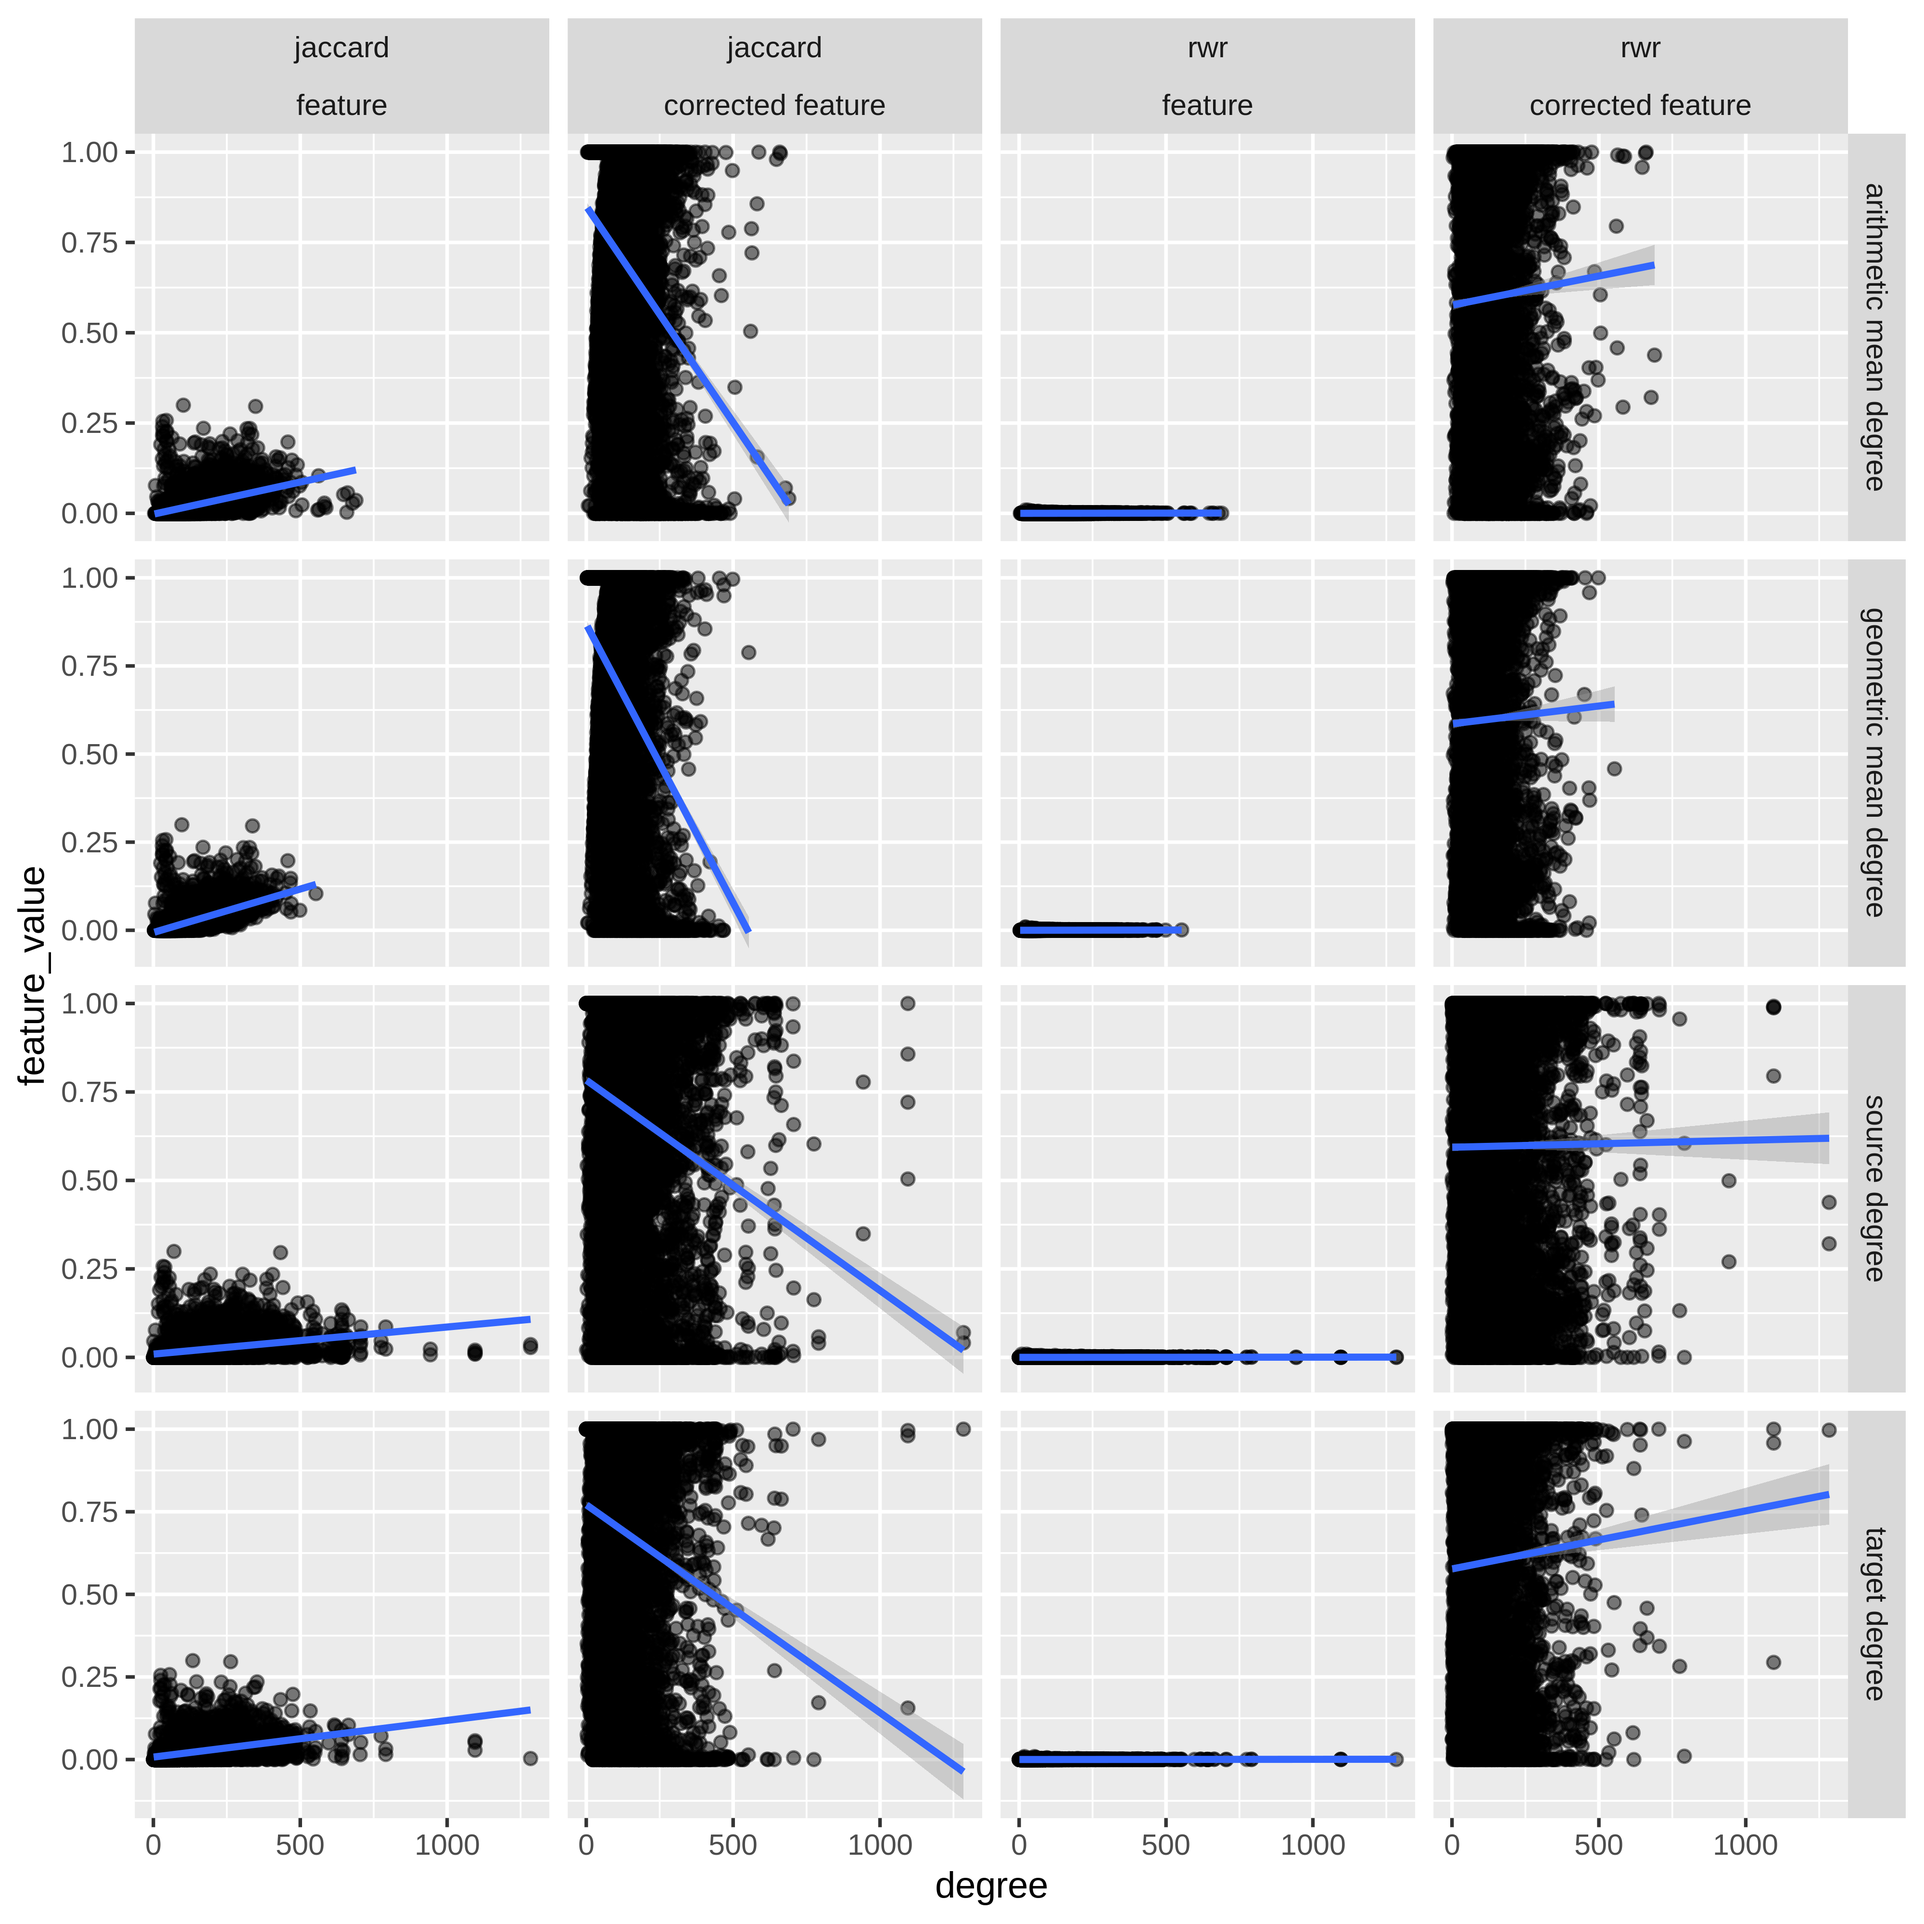
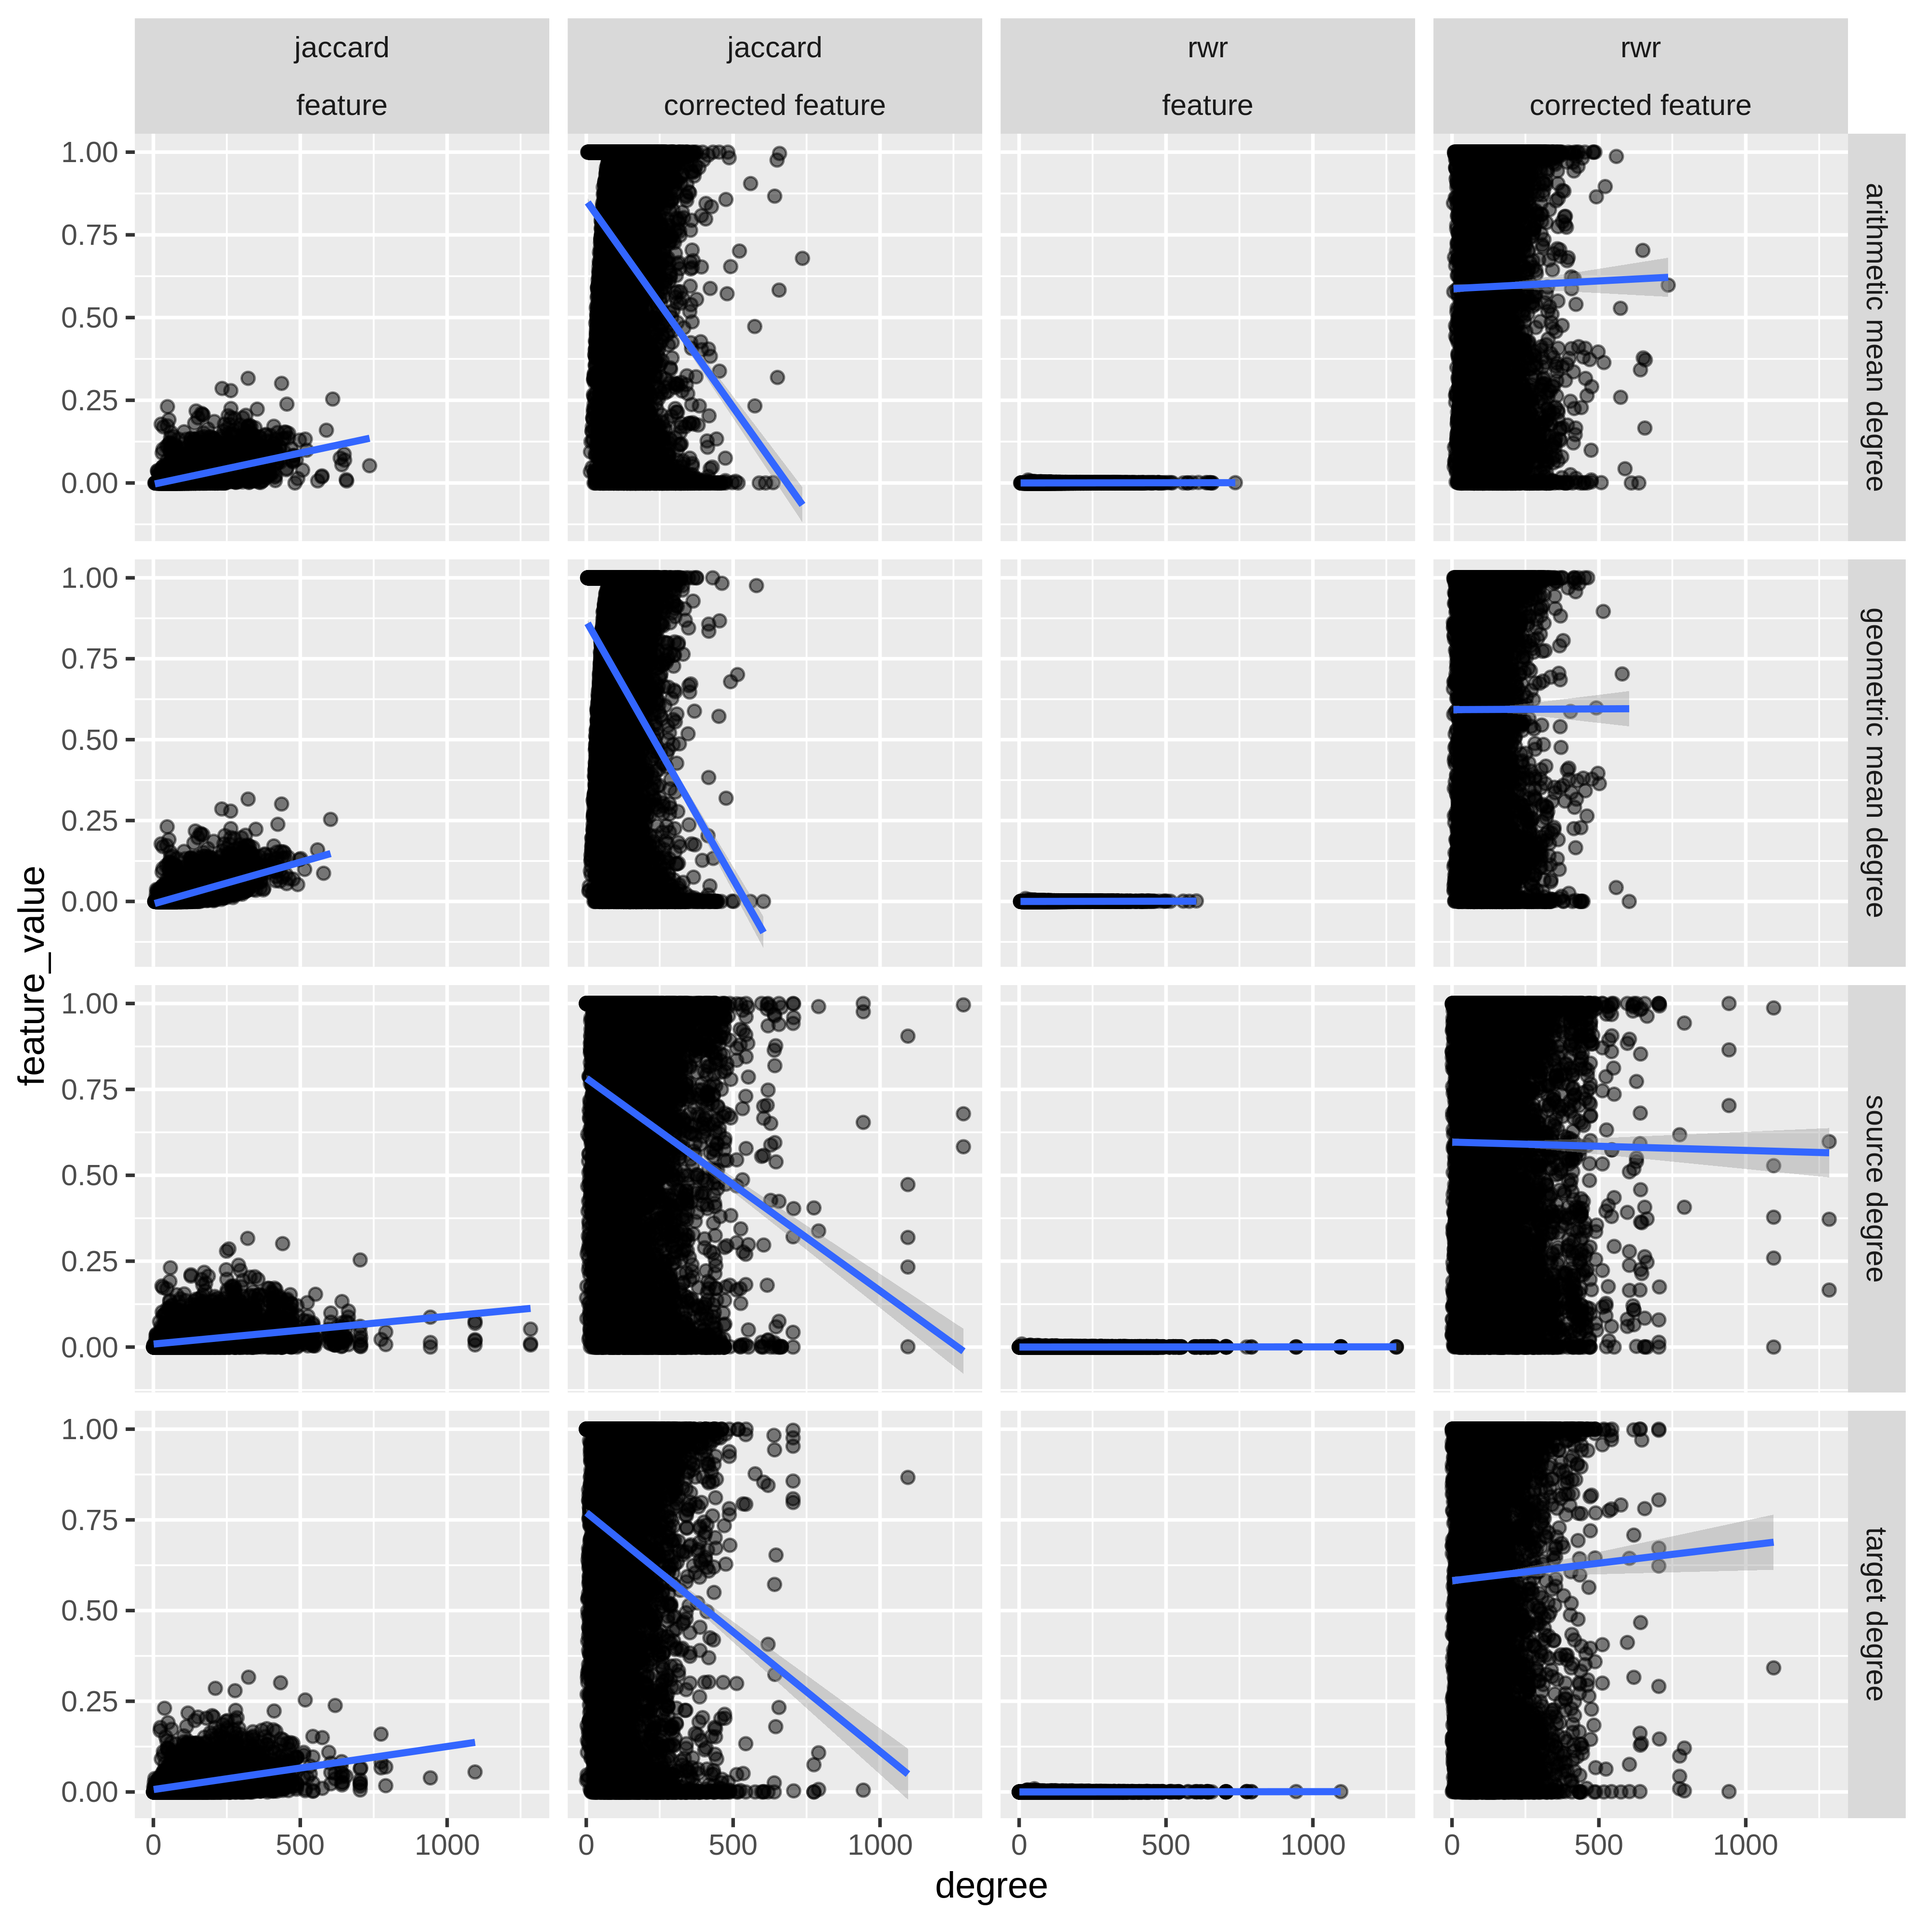
Scaffold results

diff --git a/content/02.body.md b/content/02.body.md
@@ -130,9 +130,8 @@ For the purposes of demonstration, we will focus our attention on two features: 
 
 <!--
     Implementation (fairly brief)
-    * Why Python
-    * Why C++
-    * Brief architecture discussion
+    * Python, C++
+    * Brief architecture discussion?
 -->
 
 <!--
@@ -155,12 +154,72 @@ The original algorithm and our proposed modification are shown below.
 
 ### Data used for comparisons
 
+We used three different types of biomedical information networks for comparison purposes-- a protein-protein interaction (PPI) network, a transcription factor-target gene (TFTG) network, and a co-authorship network for papers on bioRxiv in the bioinformatics section.
+For the PPI networks, we used the (?mostly literature-curated) STRING network [@doi:10.1093/nar/gky1131] and the high-throughput, proteome-scale interaction networks due to Rual et al. [@doi:10.1038/nature04209] and Rolland et al. [@doi:10.1016/j.cell.2014.10.050].
+The bioRxiv co-authorship network was created using the Rxivist [@doi:10.1101/515643; @doi:10.5281/zenodo.2566421] database that was generated by crawling the bioRxiv server.
+Unlike the other two, the co-authorship network does not have the equivalent of "literature-derived" and "high-throughput".
+We include this network to offer a comparative prediction task in which the degree distributions between training (papers before 2018) and testing (posted to bioRxiv during or after 2018) do not differ `Supplemental figure`.
+
+For each of the three data sources--PPI, TFTG, co-authorship--we had three networks, representing a degree-biased (or previous) network, a sampled version (in which a fraction of edges are dropped), and a systematic (or future) network, in which we do not expect degree bias.
+To create the sampled network, we randomly dropped 30% of the network's edges.
+Because each edge is equally likely to have been dropped, this method does not introduce new degree bias, and the resulting network has a degree distribution that is essentially equivalent to the source network `Supplemental figure`.
+
+### Features
+
+`RWR, Jaccard, edge prior, permutation feature means. Should be defined here rather than in results.`
+
+We used three features for our unsupervised edge prediction task: RWR, the Jaccard coefficient, and an inference score developed for link prediction in directed graphs [@raw:inference].
+RWR and the Jaccard coefficient are appropriate for link prediction in simple graphs like the bioRxiv co-authorship network and PPI, but they are not appropriate for prediction in directed or bipartite graphs like the TF-TG network.
+`Explain inference score briefly`
+
+`Edge prior best explained here or in results?`
+
 ### Implementation and source code
 
 We implemented the modified XSwap algorithm in Python, with the actual edge swap mechanism in C++ for speed.
-The code for our method of degree-preserving network permutation has been made freely available ([https://github.com/greenelab/xswap](https://github.com/greenelab/xswap)), as has the code for the analysis and figure generation ([https://github.com/greenelab/xswap-analysis](https://github.com/greenelab/xswap-analysis)).
+The code for our method of degree-preserving network permutation has been made freely available ([https://github.com/greenelab/xswap](https://github.com/greenelab/xswap)), as has the code for the analysis, figure generation ([https://github.com/greenelab/xswap-analysis](https://github.com/greenelab/xswap-analysis)), and manuscript ([https://github.com/greenelab/xswap-manuscript](https://github.com/greenelab/xswap-manuscript)).
 
 ## Results
+
+### Comparison between networks
+
+We computed link-prediction features for all node pairs in three types of biomedical networks--PPI, TFTG, and bioinformatics preprint co-authorship.
+For each type of network there were three networks on which features were computed, a degree-biased network, a sampled version of the degree-biased network, in which a fraction of edges were dropped, and a systematic network, in which no degree bias is expected.
+
+We computed RWR and the Jaccard coefficient on the PPI and co-authorship networks and an inference score developed for link prediction in directed graphs [@raw:inference] on the TFTG network.
+We used our network permutation algorithm to generate 1000 degree-preserving permutations of each of these networks, and we computed the same set of features on each permutation of each of the nine individual networks.
+By comparing features computed on the actual networks to the features computed on degree-preserving permutations of the networks, we were able to compute "corrected" features, which adjust the original features relative to the distribution of each node pair feature if only the network's degree sequence is retained.
+Specifically, we defined the permutation-corrected node pair features as the fraction of permuted networks in which the node pair's feature value is greater than or equal to its value in the true network.
+
+The features computed across true and permuted networks were evaluated for their ability to predict edges in the test networks corresponding to each data type.
+In particular, for each network type (PPI, TFTG, co-authorship), we evaluated the ability of each sub-network's features to predict new edges in other networks.
+The train/test network pairings evaluated were as follows: sampled/biased, biased/systematic, and systematic/biased.
+Since the goal of our method is not to maximize reconstruction performance but ability to generalize to networks with different degree distributions, we are particularly interested in feature performance for the biased/systematic prediction task.
+The results of these comparisons are shown in Figure {@fig:ROC}.
+
+![`This is not the correct image. Need to redo the analysis as explained above.`](images/all_roc.png){#fig:ROC width="100%"}
+
+We find that `... (Explain the above figure here)`
+
+
+We also found in some cases that permuted networks alone were superior to the true networks for link prediction.
+In particular, we found that two metrics were often highly informative for link prediction, even though they contain no information about the real relationships in the network.
+We term the simplest permutation-based feature the, "edge prior".
+This feature is the probability of a particular edge existing in permuted networks with a given degree sequence, and it is estimated by the fraction of permuted networks in which the edge existed.
+Additionally, for each node pair we computed the mean feature values across permuted networks.
+This feature represents the expected feature value for a node pair in random networks with the given degree sequence.
+
+
+### Subsection
+
+
+![Comparison of degree-feature relationship between raw link prediction features and features corrected for degree using counterfactual distributions computed on permuted networks](images/feature_vs_corrected.png){#fig:feature-vs-corrected width="75%"}
+
+```
+Above figure but histograms of degrees for top, say, 1% of the values (ie top features or lowest p-value)
+```
+
+### Performance of the algorithm
 
 ![Percent of edges swapped vs number of attempts at edge swaps. "Density" means the number of edges by the number of node pairs.](images/percent_swapped_continuous.png){#fig:swap-percent width="100%"}
 
